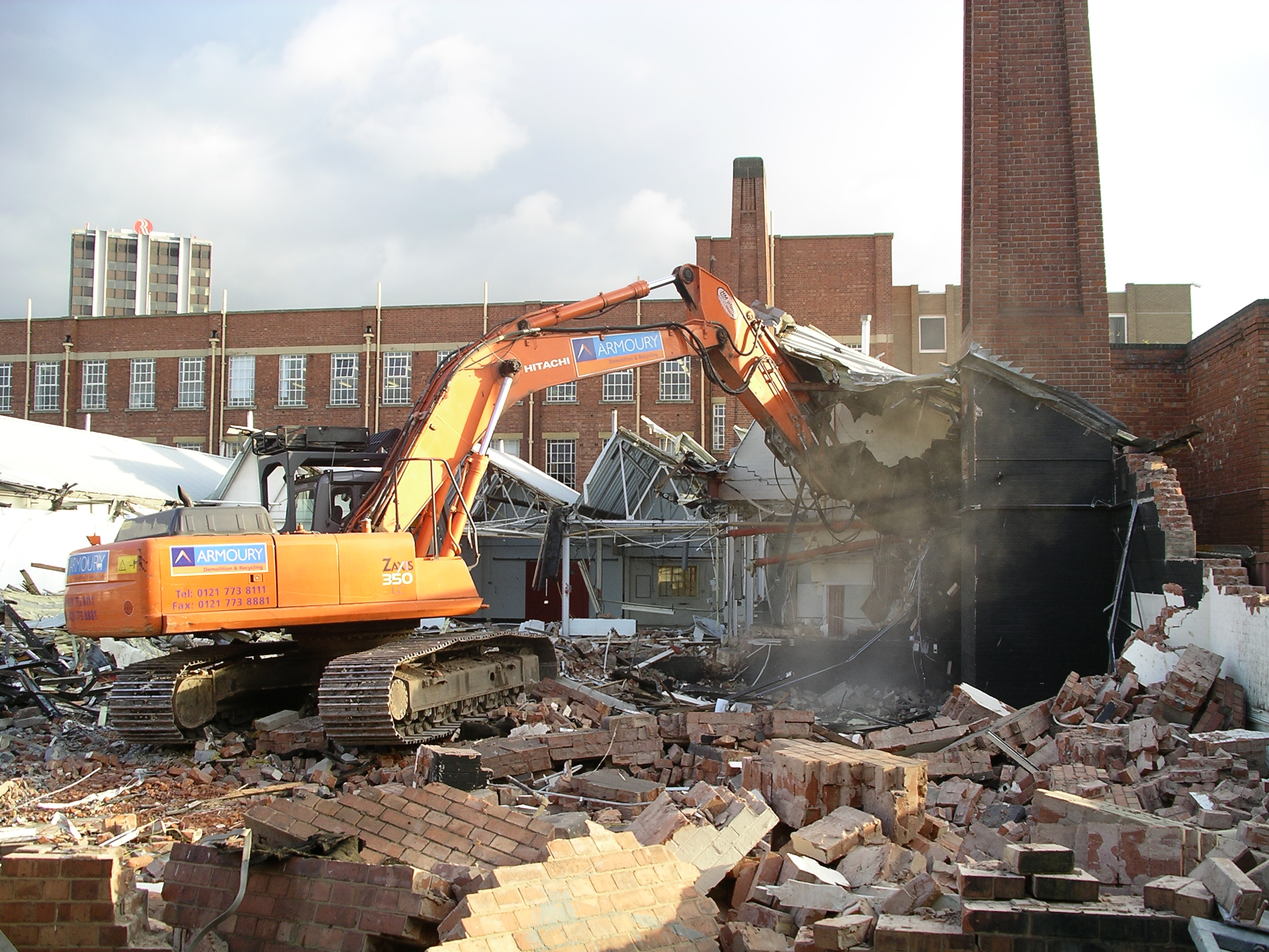
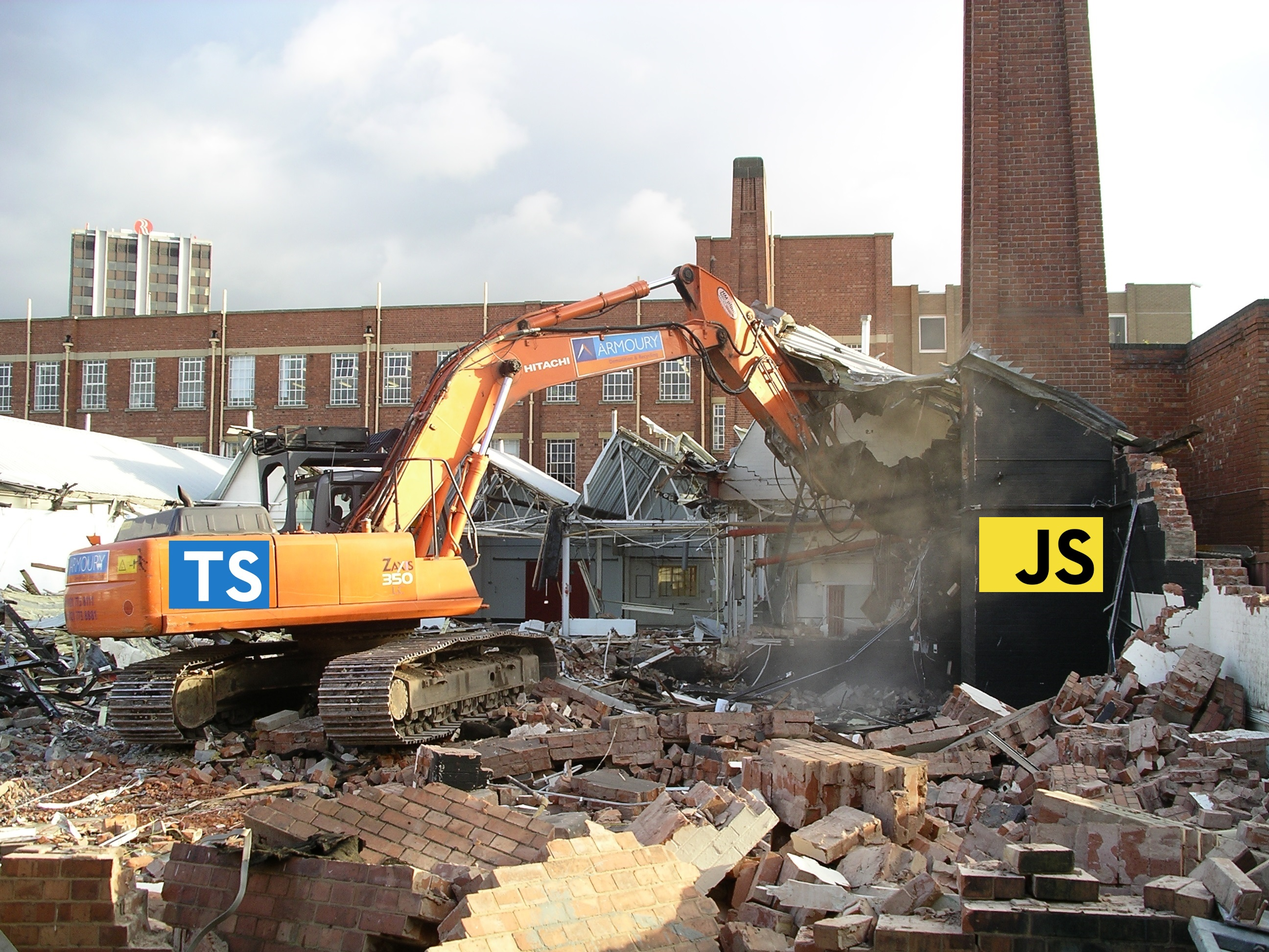
add TS features and update DEMO image

Changed region(s): [[0.75, 0.5247, 0.875, 0.6481], [0.125, 0.5556, 0.2188, 0.6481]]

diff --git a/2020/Intro-to-TypeScript/index.md b/2020/Intro-to-TypeScript/index.md
@@ -73,17 +73,25 @@ Enhanced IDE support
 Makes use of the latest JavaScript features
 </br>
 </br>
-<img src="Images/promise_async_await.png" alt="TypeScript_Example3" width="1275" height="485">
+<img src="Images/dynamicImport.png" alt="TypeScript_Example4" width="1150" height="336">
 
 ----
 
 ### **Why use TypeScript?**
 </br>
-Makes use of the latest JavaScript features
+Makes use of the latest JavaScript features - optional chaning
 </br>
 </br>
-<img src="Images/dynamicImport.png" alt="TypeScript_Example4" width="1150" height="336">
+<img src="Images/optional-chaining.png" alt="TypeScript_Example5" width="1222" height="336">
 
+----
+
+### **Why use TypeScript?**
+</br>
+Makes use of the latest JavaScript features - nullish coalescing
+</br>
+</br>
+<img src="Images/nullish-coalescing.png" alt="TypeScript_Example6" width="1224" height="348">
 
 ----
 
